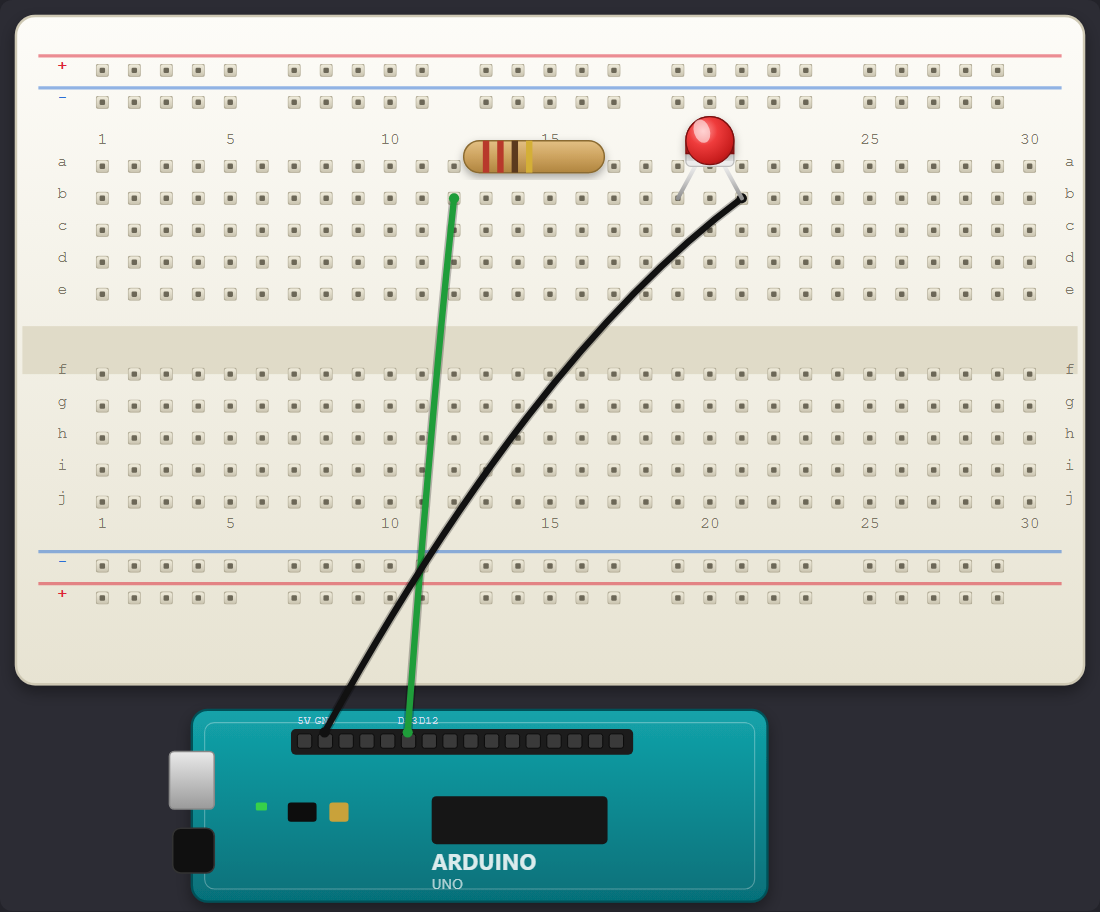
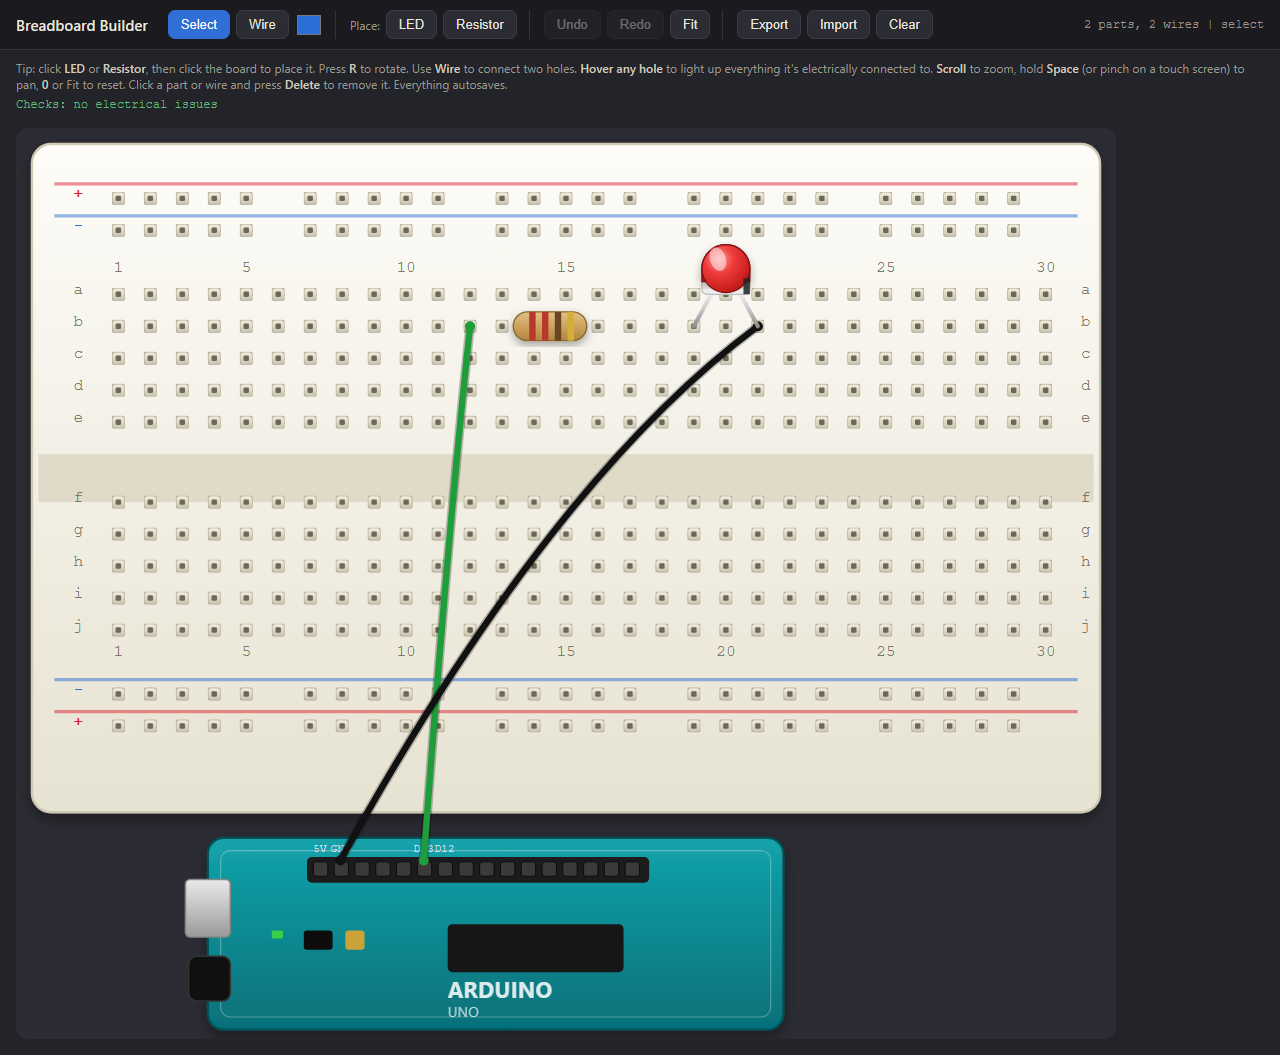
feat: Inspector (editable part values) + LED polarity + reversed/no-resistor checks
Select a part and edit it (Fritzing-parity Inspector), plus the electrical model
made correct.

- Inspector panel: pick a resistor value (presets render the real 4-band color
  code) or an LED color and polarity (a marked cathode). Live, with undo.
- Net-model correctness: the equipotential highlight no longer crosses a
  component. A resistor's two sides are different potentials, like real hardware
  and like Fritzing. (Hovering the resistor strip now lights 11 holes, not 21.)
- New checks built on polarity + the wire-only net: a backwards LED (cathode
  toward +) and an LED directly across power with no current-limiting resistor.
  These are the two mistakes beginners actually make. Conservative by design:
  only the unambiguous rail-to-rail case is flagged, so normal D-pin circuits
  are never false-flagged.
- The seeded demo is now a correct, complete blink circuit (resistor output
  shares the LED-anode strip), so it reads as a real circuit and stays clean.
- parts.js exposes RES_VALUES + LED_COLORS; part defaults applied on place, seed,
  and load (old saves normalized).

Verified in a real browser: inspector edits resistor bands + LED color/polarity;
equipotential count corrected to 11; seed shows no issues; an LED across the rails
flags the no-resistor warning; zero console errors. Hero screenshot refreshed.

diff --git a/app.js b/app.js
@@ -220,10 +220,8 @@
     for (var id in board.nodes) find(id);
     for (var pid in ardPins) find(pid);
     state.wires.forEach(function (w) { uni(nodeOfConn(w.from), nodeOfConn(w.to)); });
-    state.parts.forEach(function (p) {
-      var h0 = holesById[p.legHoles[0]], h1 = holesById[p.legHoles[1]];
-      if (h0 && h1) uni(h0.node, h1.node);
-    });
+    // NOTE: components do NOT union nodes. A resistor's two sides are different
+    // potentials, so the equipotential highlight correctly stops at a component.
     var holeNet = {}, pinNet = {}, nodeNet = {};
     for (var id2 in board.nodes) nodeNet[id2] = find(id2);
     board.holes.forEach(function (h) { holeNet[h.id] = find(h.node); });
@@ -237,6 +235,26 @@
       var h0 = holesById[p.legHoles[0]], h1 = holesById[p.legHoles[1]];
       if (h0 && h1 && h0.node === h1.node) issues.push(PARTS[p.type].label + ' is shorted (both legs on the same strip).');
     });
+
+    // LED polarity / missing-resistor checks. Supply = + rails and 5V; ground =
+    // - rails and GND. Because components do not union nets, an LED whose legs
+    // land directly on supply and ground has no resistor in series.
+    var supRoots = ['rail-top-plus', 'rail-bot-plus', 'ARD-5V'].map(find);
+    var gndRoots = ['rail-top-minus', 'rail-bot-minus', 'ARD-GND'].map(find);
+    function inSet(set, r) { return set.indexOf(r) >= 0; }
+    var ledNoRes = false, ledRev = false;
+    state.parts.forEach(function (p) {
+      if (p.type !== 'led') return;
+      var h0 = holesById[p.legHoles[0]], h1 = holesById[p.legHoles[1]];
+      if (!h0 || !h1 || h0.node === h1.node) return;
+      var ra = find(p.flip ? h1.node : h0.node), rc = find(p.flip ? h0.node : h1.node);
+      if ((inSet(supRoots, ra) && inSet(gndRoots, rc)) || (inSet(gndRoots, ra) && inSet(supRoots, rc))) {
+        ledNoRes = true;
+        if (inSet(gndRoots, ra) && inSet(supRoots, rc)) ledRev = true;
+      }
+    });
+    if (ledNoRes) issues.push('LED is directly across power with no current-limiting resistor.');
+    if (ledRev) issues.push('LED looks backwards (its cathode is toward +).');
 
     nets = { nodeNet: nodeNet, holeNet: holeNet, pinNet: pinNet, find: find, issues: issues };
   }
@@ -317,6 +335,7 @@
     }
     updateStatus();
     updateChecks();
+    renderInspector();
   }
 
   function updateStatus() {
@@ -331,6 +350,30 @@
     if (!ck || !nets) return;
     if (!nets.issues.length) { ck.textContent = 'Checks: no electrical issues'; ck.className = 'checks ok'; }
     else { ck.textContent = 'Checks: ' + nets.issues.join('   •   '); ck.className = 'checks warn'; }
+  }
+
+  var _inspSig = '';
+  function renderInspector() {
+    var el = document.getElementById('inspector'); if (!el) return;
+    var p = (state.sel && state.sel.kind === 'part') ? byId(state.sel.id) : null;
+    var sig = p ? (p.id + '|' + p.type + '|' + (p.value || '') + '|' + (p.color || '') + '|' + p.flip + '|' + p.rot) : '';
+    if (sig === _inspSig) return;
+    _inspSig = sig;
+    if (!p) { el.hidden = true; el.innerHTML = ''; return; }
+    el.hidden = false;
+    var h = '<div class="insp-title">' + PARTS[p.type].label + '</div>';
+    if (p.type === 'resistor') {
+      h += '<label>Resistance</label><select data-insp="value">';
+      window.RES_VALUES.forEach(function (o) { h += '<option value="' + o.v + '"' + (o.v === (p.value || '220') ? ' selected' : '') + '>' + o.v + ' Ω</option>'; });
+      h += '</select>';
+    } else if (p.type === 'led') {
+      h += '<label>Color</label><select data-insp="color">';
+      Object.keys(window.LED_COLORS).forEach(function (c) { h += '<option value="' + c + '"' + (c === (p.color || 'red') ? ' selected' : '') + '>' + c + '</option>'; });
+      h += '</select><button data-insp="flip">Flip polarity</button>';
+      h += '<div class="insp-note">The marked side is the cathode (minus).</div>';
+    }
+    h += '<div class="insp-row"><button data-insp="rotate">Rotate</button><button data-insp="delete">Delete</button></div>';
+    el.innerHTML = h;
   }
 
   // ---------- events ----------
@@ -405,7 +448,9 @@
       var legs = validLegs(state.placing.type, nearestHole(pt.x, pt.y, true), state.placing.rot);
       if (legs) {
         pushHistory();
-        state.parts.push({ id: state.nextId++, type: state.placing.type, anchor: legs[0], rot: state.placing.rot, legHoles: legs });
+        var np = { id: state.nextId++, type: state.placing.type, anchor: legs[0], rot: state.placing.rot, legHoles: legs };
+        var dd = PARTS[state.placing.type].defaults; if (dd) for (var dk in dd) np[dk] = dd[dk];
+        state.parts.push(np);
         state.placing = null; document.body.classList.remove('placing'); setActiveAction('select'); state.tool = 'select';
         save(); render();
       }
@@ -484,9 +529,34 @@
     r.readAsText(f); e.target.value = '';
   });
 
+  var inspEl = document.getElementById('inspector');
+  function inspPart() { return (state.sel && state.sel.kind === 'part') ? byId(state.sel.id) : null; }
+  inspEl.addEventListener('change', function (e) {
+    var el = e.target.closest('[data-insp]'); if (!el) return;
+    var p = inspPart(); if (!p) return;
+    var k = el.getAttribute('data-insp');
+    if (k === 'value') { pushHistory(); p.value = el.value; save(); _inspSig = ''; render(); }
+    else if (k === 'color') { pushHistory(); p.color = el.value; save(); _inspSig = ''; render(); }
+  });
+  inspEl.addEventListener('click', function (e) {
+    var el = e.target.closest('[data-insp]'); if (!el) return;
+    var p = inspPart(); if (!p) return;
+    var k = el.getAttribute('data-insp');
+    if (k === 'flip') { pushHistory(); p.flip = !p.flip; save(); _inspSig = ''; render(); }
+    else if (k === 'rotate') {
+      var nr = (p.rot + 1) % 4, legs = validLegs(p.type, holesById[p.anchor], nr, p.id);
+      if (legs) { pushHistory(); p.rot = nr; p.legHoles = legs; save(); _inspSig = ''; render(); }
+    } else if (k === 'delete') { pushHistory(); state.parts = state.parts.filter(function (x) { return x.id !== p.id; }); state.sel = null; save(); render(); }
+  });
+
   // ---------- persistence ----------
   var KEY = 'breadboard.layout.v1';
-  function normalizePart(p) { if (p.rot == null) p.rot = 0; if (p.anchor == null && p.legHoles) p.anchor = p.legHoles[0]; return p; }
+  function normalizePart(p) {
+    if (p.rot == null) p.rot = 0;
+    if (p.anchor == null && p.legHoles) p.anchor = p.legHoles[0];
+    var d = PARTS[p.type] && PARTS[p.type].defaults; if (d) for (var k in d) if (p[k] == null) p[k] = d[k];
+    return p;
+  }
   function validPart(p) { return p.legHoles && PARTS[p.type] && holesById[p.legHoles[0]] && holesById[p.legHoles[1]]; }
   function snapshot() { return { version: 1, parts: state.parts, wires: state.wires, nextId: state.nextId }; }
   function save() { try { localStorage.setItem(KEY, JSON.stringify(snapshot())); } catch (_) {} }
@@ -538,7 +608,9 @@
     function part(type, c, r) {
       var anchor = holeByCR(c, r); if (!anchor) return null;
       var legs = deriveLegs(type, anchor, 0); if (!legs) return null;
-      state.parts.push({ id: state.nextId++, type: type, anchor: legs[0], rot: 0, legHoles: legs });
+      var p = { id: state.nextId++, type: type, anchor: legs[0], rot: 0, legHoles: legs };
+      var sd = PARTS[type].defaults; if (sd) for (var sk in sd) p[sk] = sd[sk];
+      state.parts.push(p);
     }
     part('resistor', 12, 'b');
     part('led', 19, 'b');

diff --git a/parts.js b/parts.js
@@ -1,32 +1,57 @@
 // parts.js
-// Part definitions as DATA. Each part type declares how many holes its legs span
-// and a draw() that paints realistic SVG in a LOCAL frame: leg 1 is at (0,0) and
-// leg 2 is at (len, 0), along the +x axis. The app rotates the whole part by
-// transforming its group, so the same draw() works horizontal or vertical.
-//
-// draw(mk, len, opts): mk(name, attrs) appends one SVG element to the part group.
-// Adding a 2-leg part = one entry here. No new logic elsewhere.
+// Part definitions as DATA. Each part type declares its leg span, a realistic
+// draw(), and default editable properties. draw(mk, len, opts) paints in a LOCAL
+// frame: leg 1 at (0,0), leg 2 at (len,0). The app rotates the group, so one
+// draw() works at any angle.
 
 (function (root) {
   'use strict';
 
+  // resistor presets: value label -> real 4-band color code
+  var RES_VALUES = [
+    { v: '220',  bands: ['#b8392b', '#b8392b', '#6b4423', '#d4af37'] }, // red red brown gold
+    { v: '330',  bands: ['#e08a1e', '#e08a1e', '#6b4423', '#d4af37'] }, // orange orange brown
+    { v: '470',  bands: ['#e6d21e', '#7b3fb0', '#6b4423', '#d4af37'] }, // yellow violet brown
+    { v: '1k',   bands: ['#6b4423', '#161616', '#b8392b', '#d4af37'] }, // brown black red
+    { v: '2.2k', bands: ['#b8392b', '#b8392b', '#b8392b', '#d4af37'] }, // red red red
+    { v: '4.7k', bands: ['#e6d21e', '#7b3fb0', '#b8392b', '#d4af37'] }, // yellow violet red
+    { v: '10k',  bands: ['#6b4423', '#161616', '#e08a1e', '#d4af37'] }, // brown black orange
+    { v: '100k', bands: ['#6b4423', '#161616', '#e6d21e', '#d4af37'] }  // brown black yellow
+  ];
+  function resistorBands(v) {
+    for (var i = 0; i < RES_VALUES.length; i++) if (RES_VALUES[i].v === v) return RES_VALUES[i].bands;
+    return RES_VALUES[0].bands;
+  }
+
+  var LED_COLORS = {
+    red:    { grad: 'ledc-red',    stroke: '#7c1010' },
+    yellow: { grad: 'ledc-yellow', stroke: '#8a6f10' },
+    green:  { grad: 'ledc-green',  stroke: '#0f5a0f' },
+    blue:   { grad: 'ledc-blue',   stroke: '#15296b' },
+    white:  { grad: 'ledc-white',  stroke: '#9a9a9a' }
+  };
+
   function drawLED(mk, len, opts) {
+    var color = (opts && opts.color) || 'red';
+    var meta = LED_COLORS[color] || LED_COLORS.red;
+    var flip = !!(opts && opts.flip);
     var mx = len / 2, baseY = -24, domeCy = baseY - 12;
     mk('line', { x1: 0, y1: 0, x2: mx - 7, y2: baseY, stroke: 'url(#metalGrad)', 'stroke-width': 2.6, 'stroke-linecap': 'round' });
     mk('line', { x1: len, y1: 0, x2: mx + 7, y2: baseY, stroke: 'url(#metalGrad)', 'stroke-width': 2.6, 'stroke-linecap': 'round' });
     mk('rect', { x: mx - 15, y: baseY - 6, width: 30, height: 10, rx: 3, fill: '#ececec', stroke: '#bdbdbd', 'stroke-width': 0.8 });
     var dome = 'M ' + (mx - 15) + ' ' + (baseY - 4) + ' L ' + (mx - 15) + ' ' + domeCy +
       ' A 15 15 0 0 1 ' + (mx + 15) + ' ' + domeCy + ' L ' + (mx + 15) + ' ' + (baseY - 4) + ' Z';
-    mk('path', { d: dome, fill: 'url(#ledGrad)', stroke: '#7c1010', 'stroke-width': 0.8, filter: 'url(#soft)' });
-    mk('circle', { cx: mx, cy: domeCy, r: 15, fill: 'url(#ledGrad)', stroke: '#7c1010', 'stroke-width': 0.8 });
-    mk('ellipse', { cx: mx - 5, cy: domeCy - 6, rx: 5, ry: 7.5, fill: '#ffffff', opacity: 0.55,
+    mk('path', { d: dome, fill: 'url(#' + meta.grad + ')', stroke: meta.stroke, 'stroke-width': 0.8, filter: 'url(#soft)' });
+    mk('circle', { cx: mx, cy: domeCy, r: 15, fill: 'url(#' + meta.grad + ')', stroke: meta.stroke, 'stroke-width': 0.8 });
+    mk('ellipse', { cx: mx - 5, cy: domeCy - 6, rx: 5, ry: 7.5, fill: '#ffffff', opacity: 0.5,
       transform: 'rotate(-18 ' + (mx - 5) + ' ' + (domeCy - 6) + ')' });
+    // cathode (the flat / minus side) marker. cathode leg is local x=len unless flipped.
+    var cathodeRight = !flip;
+    mk('rect', { x: cathodeRight ? (mx + 11) : (mx - 15), y: baseY - 6, width: 4, height: 10, fill: '#222', opacity: 0.85 });
   }
 
   function drawResistor(mk, len, opts) {
-    var bands = (opts && opts.bands) || ['#b8392b', '#b8392b', '#5b3a1e', '#d4af37'];
-    // fixed body length: the leads stretch with span, the body never distorts
-    // (this is what keeps a vertical part crossing the ravine from stretching).
+    var bands = resistorBands((opts && opts.value) || '220');
     var BODY = 46, bh = 18, bs, be;
     if (len > BODY + 16) { bs = (len - BODY) / 2; be = bs + BODY; }
     else { bs = len * 0.2; be = len * 0.8; }
@@ -34,14 +59,14 @@
     mk('line', { x1: 0, y1: 0, x2: bs, y2: 0, stroke: 'url(#metalGrad)', 'stroke-width': 2.4, 'stroke-linecap': 'round' });
     mk('line', { x1: len, y1: 0, x2: be, y2: 0, stroke: 'url(#metalGrad)', 'stroke-width': 2.4, 'stroke-linecap': 'round' });
     mk('rect', { x: bs, y: -bh / 2, width: w, height: bh, rx: bh / 2, fill: 'url(#resGrad)', stroke: '#8a6a30', 'stroke-width': 0.9, filter: 'url(#soft)' });
-    bands.forEach(function (c, i) {
-      mk('rect', { x: bs + 10 + i * 8, y: -bh / 2, width: 4, height: bh, fill: c });
-    });
+    bands.forEach(function (c, i) { mk('rect', { x: bs + 10 + i * 8, y: -bh / 2, width: 4, height: bh, fill: c }); });
   }
 
   root.PARTS = {
-    led: { label: 'LED', span: 2, draw: drawLED },
-    resistor: { label: 'Resistor', span: 5, draw: drawResistor }
+    led: { label: 'LED', span: 2, draw: drawLED, defaults: { color: 'red', flip: false } },
+    resistor: { label: 'Resistor', span: 5, draw: drawResistor, defaults: { value: '220' } }
   };
-  if (typeof module !== 'undefined' && module.exports) module.exports = { PARTS: root.PARTS };
+  root.RES_VALUES = RES_VALUES;
+  root.LED_COLORS = LED_COLORS;
+  if (typeof module !== 'undefined' && module.exports) module.exports = { PARTS: root.PARTS, RES_VALUES: RES_VALUES, LED_COLORS: LED_COLORS };
 })(typeof window !== 'undefined' ? window : globalThis);

diff --git a/style.css b/style.css
@@ -65,3 +65,41 @@ body.panning #board { cursor: grabbing; }
 }
 .checks.ok { color: #5fb87a; }
 .checks.warn { color: #e0a93f; }
+
+.inspector {
+  position: fixed;
+  right: 18px;
+  top: 132px;
+  z-index: 5;
+  width: 200px;
+  background: #1f1f26;
+  border: 1px solid #3a3a44;
+  border-radius: 10px;
+  padding: 12px 14px;
+  box-shadow: 0 8px 24px rgba(0, 0, 0, 0.4);
+}
+.inspector .insp-title { font-size: 13px; font-weight: 600; margin-bottom: 10px; }
+.inspector label { display: block; font-size: 11px; color: #9a978d; margin: 8px 0 3px; }
+.inspector select {
+  width: 100%;
+  font-size: 13px;
+  padding: 5px 6px;
+  border-radius: 6px;
+  background: #2c2c34;
+  color: #e8e6df;
+  border: 1px solid #3c3c46;
+}
+.inspector button {
+  margin-top: 8px;
+  font-size: 12px;
+  padding: 5px 10px;
+  border-radius: 6px;
+  border: 1px solid #3c3c46;
+  background: #2c2c34;
+  color: #e8e6df;
+  cursor: pointer;
+}
+.inspector button:hover { background: #353541; }
+.inspector .insp-row { display: flex; gap: 6px; }
+.inspector .insp-row button { flex: 1; }
+.inspector .insp-note { font-size: 10px; color: #7d7a70; margin-top: 8px; line-height: 1.4; }

diff --git a/index.html b/index.html
@@ -36,6 +36,8 @@
   <p class="hint" id="hint">Tip: click <b>LED</b> or <b>Resistor</b>, then click the board to place it. Press <b>R</b> to rotate. Use <b>Wire</b> to connect two holes. <b>Hover any hole</b> to light up everything it's electrically connected to. <b>Scroll</b> to zoom, hold <b>Space</b> (or pinch on a touch screen) to pan, <b>0</b> or Fit to reset. Click a part or wire and press <b>Delete</b> to remove it. Everything autosaves.</p>
   <div id="checks" class="checks">Checks: no electrical issues</div>
 
+  <div id="inspector" class="inspector" hidden></div>
+
   <main>
     <svg id="board" xmlns="http://www.w3.org/2000/svg" role="img" aria-label="Virtual breadboard">
       <defs>
@@ -48,6 +50,26 @@
         <radialGradient id="ledGrad" cx="0.36" cy="0.30" r="0.85">
           <stop offset="0" stop-color="#ff9c9c"/><stop offset="0.35" stop-color="#ef3c3c"/>
           <stop offset="0.78" stop-color="#c81d1d"/><stop offset="1" stop-color="#8c1212"/>
+        </radialGradient>
+        <radialGradient id="ledc-red" cx="0.36" cy="0.30" r="0.85">
+          <stop offset="0" stop-color="#ff9c9c"/><stop offset="0.35" stop-color="#ef3c3c"/>
+          <stop offset="0.78" stop-color="#c81d1d"/><stop offset="1" stop-color="#8c1212"/>
+        </radialGradient>
+        <radialGradient id="ledc-yellow" cx="0.36" cy="0.30" r="0.85">
+          <stop offset="0" stop-color="#fff7b0"/><stop offset="0.35" stop-color="#f2d83a"/>
+          <stop offset="0.78" stop-color="#d8b81d"/><stop offset="1" stop-color="#8a6f10"/>
+        </radialGradient>
+        <radialGradient id="ledc-green" cx="0.36" cy="0.30" r="0.85">
+          <stop offset="0" stop-color="#bfffbf"/><stop offset="0.35" stop-color="#46d846"/>
+          <stop offset="0.78" stop-color="#1faa1f"/><stop offset="1" stop-color="#0f5a0f"/>
+        </radialGradient>
+        <radialGradient id="ledc-blue" cx="0.36" cy="0.30" r="0.85">
+          <stop offset="0" stop-color="#bcd2ff"/><stop offset="0.35" stop-color="#4d7bf0"/>
+          <stop offset="0.78" stop-color="#2450c8"/><stop offset="1" stop-color="#15296b"/>
+        </radialGradient>
+        <radialGradient id="ledc-white" cx="0.36" cy="0.30" r="0.85">
+          <stop offset="0" stop-color="#ffffff"/><stop offset="0.4" stop-color="#f0f0f0"/>
+          <stop offset="0.8" stop-color="#d4d4d4"/><stop offset="1" stop-color="#a8a8a8"/>
         </radialGradient>
         <linearGradient id="metalGrad" x1="0" y1="0" x2="0" y2="1">
           <stop offset="0" stop-color="#fbfbfb"/><stop offset="0.5" stop-color="#cfcfcf"/><stop offset="1" stop-color="#8f8f8f"/>

diff --git a/COMPARISON.md b/COMPARISON.md
@@ -21,8 +21,8 @@ does not apply to a web breadboard tool.
 | Place + rotate parts | Yes (LED, resistor) | Yes (huge library) | Yes (broad library) |
 | Jumper wires | Click hole to hole | Bendable wires + Bezier curves | Yes |
 | Equipotential highlight (see the net) | Yes (shipped) | Yes (press-and-hold) | Partial |
-| Wiring checks | Short + shorted-part | Ratsnest "still to connect" | Live electrical sim |
-| Edit part values (Inspector) | No | Yes (resistance, LED color, live) | Yes |
+| Wiring checks | Short, shorted part, reversed LED, no resistor | Ratsnest "still to connect" | Live electrical sim |
+| Edit part values (Inspector) | Yes (resistor Ω, LED color + polarity) | Yes (resistance, LED color, live) | Yes |
 | Undo/redo, multi-select, copy/paste | No | Yes | Yes |
 | Zoom / pan | No | Yes | Yes |
 | Parts library + search | 2 parts | Large bins + search | Large catalogs |
@@ -55,13 +55,14 @@ underserves and the simulators treat as secondary.
    re-render per mousemove). NEXT.
 
 **P1 - depth:**
-4. Inspector panel: select a part, edit its value. Resistor ohms (with correct
-   color bands), LED color + polarity (mark the cathode). This is also what lets
-   the checker flag a backwards LED or a missing current-limiting resistor.
+4. Inspector panel. SHIPPED. Select a part, edit its value: resistor ohms (with
+   correct color bands), LED color + polarity (a marked cathode).
 5. More parts on an N-leg architecture: push button, capacitor, potentiometer,
    diode, transistor, a DIP/IC, a battery/supply. (Current code hardcodes 2 legs.)
-6. Deeper wiring checker: floating pins, redundant-wire warning, "is D13 actually
-   connected to the LED", reversed-LED and no-resistor warnings.
+   NEXT.
+6. Deeper wiring checker. Reversed-LED and no-current-limiting-resistor warnings
+   SHIPPED (the equipotential model now correctly stops at components). Next:
+   floating pins, redundant-wire warning, "is D13 actually connected to the LED".
 
 **P2 - product:**
 7. Share-by-URL (the state is tiny: base64 it into the link) + PNG export + named

diff --git a/README.md b/README.md
@@ -26,9 +26,14 @@ matters).
 - Draw colored **jumper wires** between any two holes (or to the Arduino's pins).
 - A stylized **Arduino UNO** below the board with wire-able 5V / GND / D13 / D12
   pins, so a full "blink an LED" circuit is buildable end to end.
+- **Select a part to edit it** in the Inspector: a resistor's value (with the
+  correct color bands) or an LED's color and polarity.
 - **Hover any hole** to light up every hole electrically connected to it (the
-  equipotential highlight), and live **checks** flag a power-rail short or a
-  component shorted across one strip.
+  equipotential highlight; it correctly stops at a component). Live **checks**
+  flag a power-rail short, a shorted component, a backwards LED, and an LED with
+  no current-limiting resistor.
+- **Zoom and pan**: scroll to zoom, hold Space or middle-drag to pan, pinch on a
+  touch screen, Fit to reset. **Undo/redo** with Ctrl+Z / Ctrl+Shift+Z.
 - **Select** a part or wire and press **Delete** to remove it.
 - **Autosave** to the browser, plus **Export** / **Import** of the layout as
   JSON, and **Clear**.